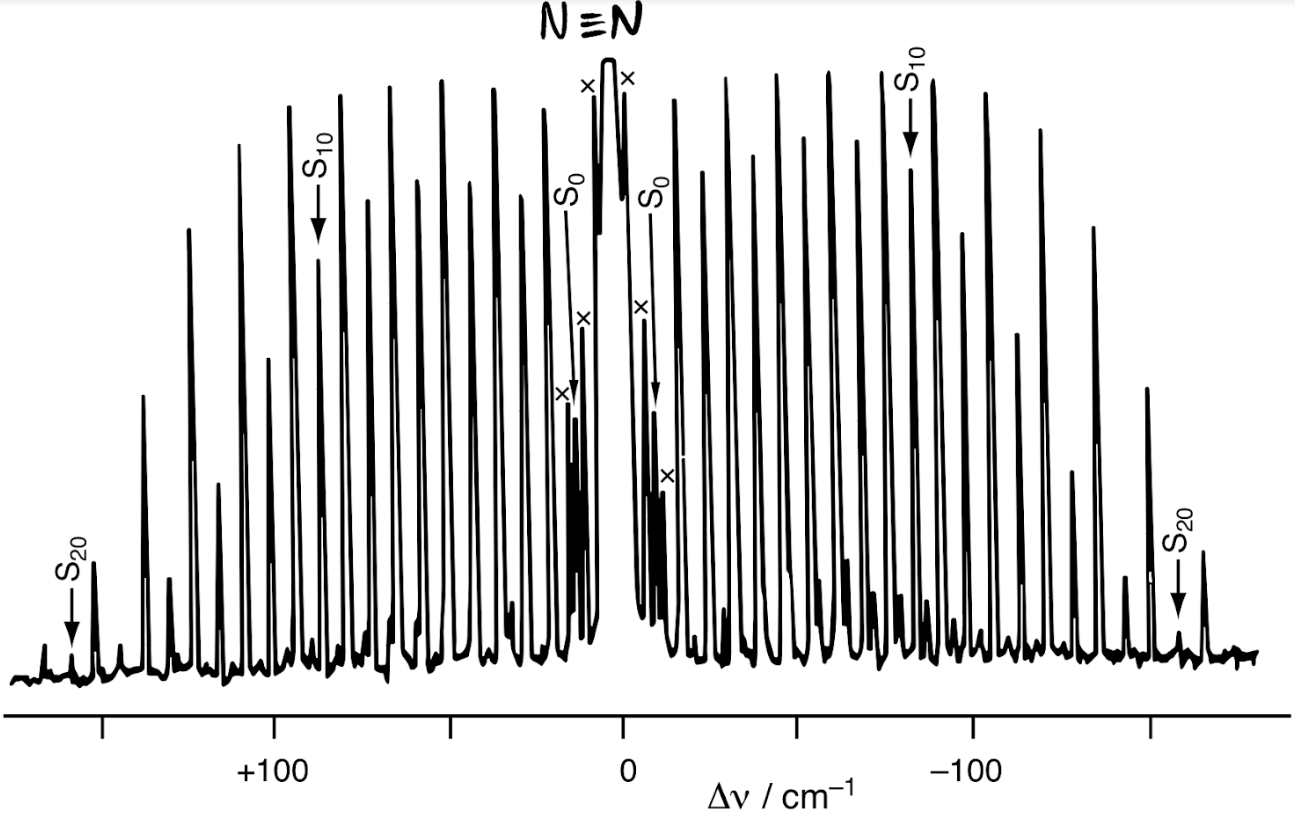
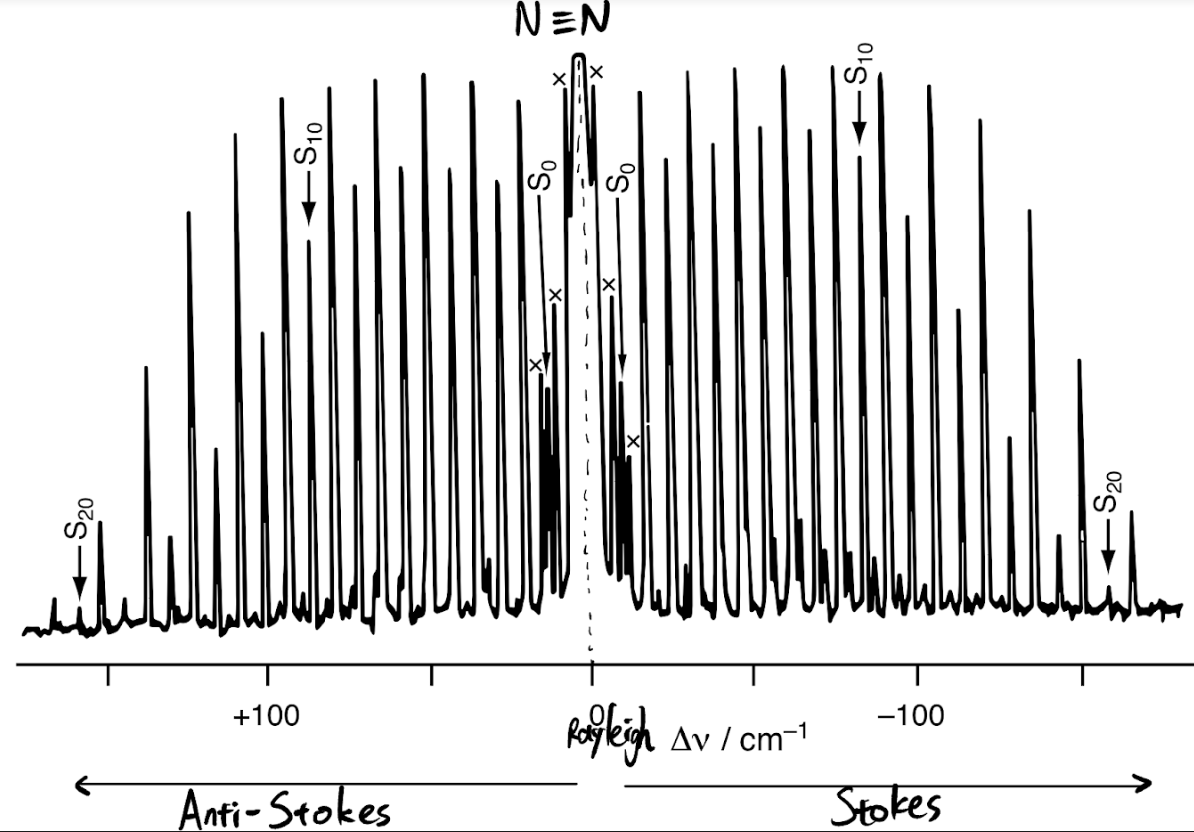
Updates on vibrational potentials in spectroscopy

diff --git a/Chemistry/IB Chemistry/Molecular spectroscopy.md b/Chemistry/IB Chemistry/Molecular spectroscopy.md
@@ -38,15 +38,20 @@ $$\displaylines{\Delta E_\text{tot}=\Delta E_\text{elec}+\Delta E_\text{vib}+\De
 	- _Stimulated emission_: $M^*+h\nu\rightarrow M+2h\nu$
 
 - All of these require an _oscillating dipole_ with a _frequency corresponding to the interacting photon_
+- This leads to the _gross selection rules_ for each type of spectroscopy, specifying _what molecules_ can generate that type of spectrum
+- Then, there are _specific selection rules_ detailing _which transitions_ are allowed
 
 ### Pure rotational spectra
 - A _pure_ rotational spectrum is one generated only from microwave radiation 
 - To generate an _oscillating electric field_ while rotating, the molecule must possess a _permanent dipole moment_
 	- The component along one direction will oscillate
-- This requires _a difference in electronegativity_ between atoms plus symmetry requirements
+- _Gross selection rule_:  There must be a _permanent dipole moment_
+	- Caused by an _electronegativity difference_, plus the right type of _symmetry_
 
 ### Vibrational spectra
-- This also requires a _difference in electronegativities_ as _internuclear distance oscillates_ to bring about a change in dipole moment
+- As _internuclear distance oscillates_, a _change in dipole moment_ can be caused
+- _Gross selection rule_: At _equilibrium_, there must be a _non-zero rate of change in dipole moment_:
+$$\pd{\mu}{q}\Bigg|_\text{eq}\neq0$$
 
 ### Raman spectroscopy
 - Many molecules _cannot generate the required oscillating dipole_ (such as homonuclear diatomics)
@@ -69,7 +74,11 @@ $$M^*+h\nu\rightarrow M+h\nu'\hspace{0.3cm}, \hspace{0.3cm}\nu'>\nu$$
 
 - In order for inelastic scattering to occur, the molecule's _polarisability_ must change during vibration or rotation
 
+- _Gross selection rule_: The molecule's _polarisability_ must have a _non-zero rate of change_ at _equilibrium_
+$$\pd{\alpha}{q}\Bigg|_\text{eq}\neq0$$
+
 #### Mathematical description
+- This is a mostly _classical description_, which is not wholly accurate
 - From the [[Electromagnetism#Molecular origins of dielectrics|definition of polarisability]], the dipole moment $\bm{\mu}$ of a molecule given an electric field $\bm{E}$ is:
 $$\bm{\mu}=\alpha\bm{E}$$
 - Given an _oscillating electric field_ $E=E_0\sin2\pi\nu t$, the dipole also oscillates:
@@ -158,12 +167,47 @@ $$\Delta J=0,\pm2$$
 $$\mathcal{E}_\text{upper}-\mathcal{E}_\text{lower}=\tilde{B}(4J+6)$$
 - _Stokes lines_, where the molecule gains energy, are at $\tilde{\nu}_\text{incident}-\tilde{B}(4J+6)$
 - _Anti-Stokes lines_, where the molecule loses energy, are at $\tilde{\nu}_\text{incident}+\tilde{B}(4J+6)$
-![[Raman lines.png]]
+![[Raman lines.png|600]]
 - $\Delta J$ is defined by convention to be $J(\text{upper})-J(\text{lower})$
 - Therefore, all Raman lines _are in the S branch_
-![[N2 Raman.png]]
-
+![[N2 Raman.png|600]]
 ## Vibrational potentials and selection rules
+![[Internuclear potential.png|500]]
+- General behaviour of a diatomic:
+	- If stretched or compressed, there is a _restoring force_
+	- The more _compressed_ the molecule is, the _stronger the repulsion_
+	- As the molecule is _stretched_ more and more, the molecule _dissociates_ with $V(r)\to0$
+### The harmonic oscillator
+- Form of potential:
+$$V(x)=\frac{1}{2}kx^2$$
+
+- More details: [[Molecular quantum mechanics#Nuclei: The quantum harmonic oscillator|The quantum harmonic oscillator]]
+- The _intrinsic frequency of oscillation_ is given by:
+$$\displaylines{\omega=\sqrt{\frac{k}{\mu}}\\ \tilde{\omega}=\frac{1}{2\pi\tilde{c}}\sqrt{\frac{k}{\mu}}}$$
+- The energy levels are given by:
+$$\displaylines{E_\nu=\left(\nu+\frac{1}{2}\right)\hbar\omega \\ \mathcal{E}_\nu=\left(\nu+\frac{1}{2}\right)\tilde{\omega}}$$
+- As before, the molecule can only give a _vibrational spectrum_ if it has a _change in dipole moment_
+- There is a _specific selection rule_ for the harmonic oscillator, derived from Fermi's Golden Rule:
+$$\Delta\nu=\pm1$$
+- Therefore, _all allowed vibrations are at_ $\tilde{\omega}$
+- The absorption spectrum should have a _single line_
+
+### Anharmonic oscillator: the Morse potential
+- Form of potential:
+$$V_M(x)=D_e\left[1-\exp(-\beta x)\right]^2$$
+- More details: [[Molecular quantum mechanics#Nuclei: The Morse oscillator|The Morse Oscillator]]
+- $D_e$ determines well _depth_, $\beta$ determines well _steepness_
+
+- Taylor expanding the potential for _small displacements_, it can be approximated as _quadratic_:
+$$\displaylines{V_x\approx D_e\beta^2x^2=\frac{1}{2}kx^2 \\k_M=2D_3\beta^2}$$
+- Then, one can define the _frequency of small oscillations_:
+$$\omega=\sqrt{\frac{k_M}{\mu}}$$
+
+- The energy levels for this potential are:
+$$\displaylines{E_\nu=\left(\nu+\frac{1}{2}\right)\hbar\omega-\left( \nu+\frac{1}{2}\right)^2\hbar\omega\chi_e \\ \mathcal{E}_\nu=\left(\nu+\frac{1}{2}\right)\tilde{\omega}-\left(\nu+\frac{1}{2}\right)^2\tilde{\omega}\chi_e}$$
+- $\chi_e$ is the _anharmonicity constant_:
+$$\chi_e=\frac{\hbar\beta^2}{2\mu\omega}$$
+
 
 ## Vibrational spectroscopy for diatomics
 

diff --git a/Chemistry/IB Chemistry/Molecular quantum mechanics.md b/Chemistry/IB Chemistry/Molecular quantum mechanics.md
@@ -15,7 +15,7 @@ $$E_n=\frac{n^2\hbar^2\pi^2}{2ma^2}$$
 - Details: [[Time-independent Hamiltonians in 1 dimension#Particle in a box|Particle in a box]]
 
 ### Nuclei: The quantum harmonic oscillator
-- Details: [[Quantum Harmonic Oscillator]]
+- Mathematical details and derivation: [[Quantum Harmonic Oscillator]]
 - Potential:
 $$V(r)=\frac{1}{2}m\omega^2r^2=\frac{1}{2}kr^2$$
 - General solution in terms of [[Special functions and orthogonal relations#Hermite polynomials|Hermite polynomials]] $H_n$:
@@ -25,6 +25,10 @@ $$\psi_n(q)=\frac{1}{\sqrt{2^nn!}}\left(\frac{m\omega}{\pi\hbar} \right)^{1/4}H_
 
 - Energy levels:
 $$E_n=(n+\frac{1}{2})\hbar\omega$$
+- There is a _non-zero probability_ that the particle is in the _classically-forbidden region_
+- The _lowest energy level_ is given by $E_0=\hbar\omega/2$, this is the _zero-point energy_
+	- Consequence of the _uncertainty principle_
+
 
 ### Nuclei: The Morse oscillator
 >[!quote]
@@ -40,6 +44,8 @@ $$V_M(r)=D_e\left(1-e^{-\beta(r-r_e)}\right)^2$$
 - The _harmonic force constant_ at equilibrium is $k=2\beta^2D_e$
 	- Found by Taylor expanding the potential
 - $D_0$: energy required to dissociate a molecule originally at the ground state
+
+- The potential was obtained _empirically_, and only an _approximation_
 
 - The bound energy levels for the Morse potential:
 $$E_n=\left(n+\frac{1}{2}\right)\hbar\omega- \left(n+\frac{1}{2}\right)^2 \hbar\omega\chi_e$$
